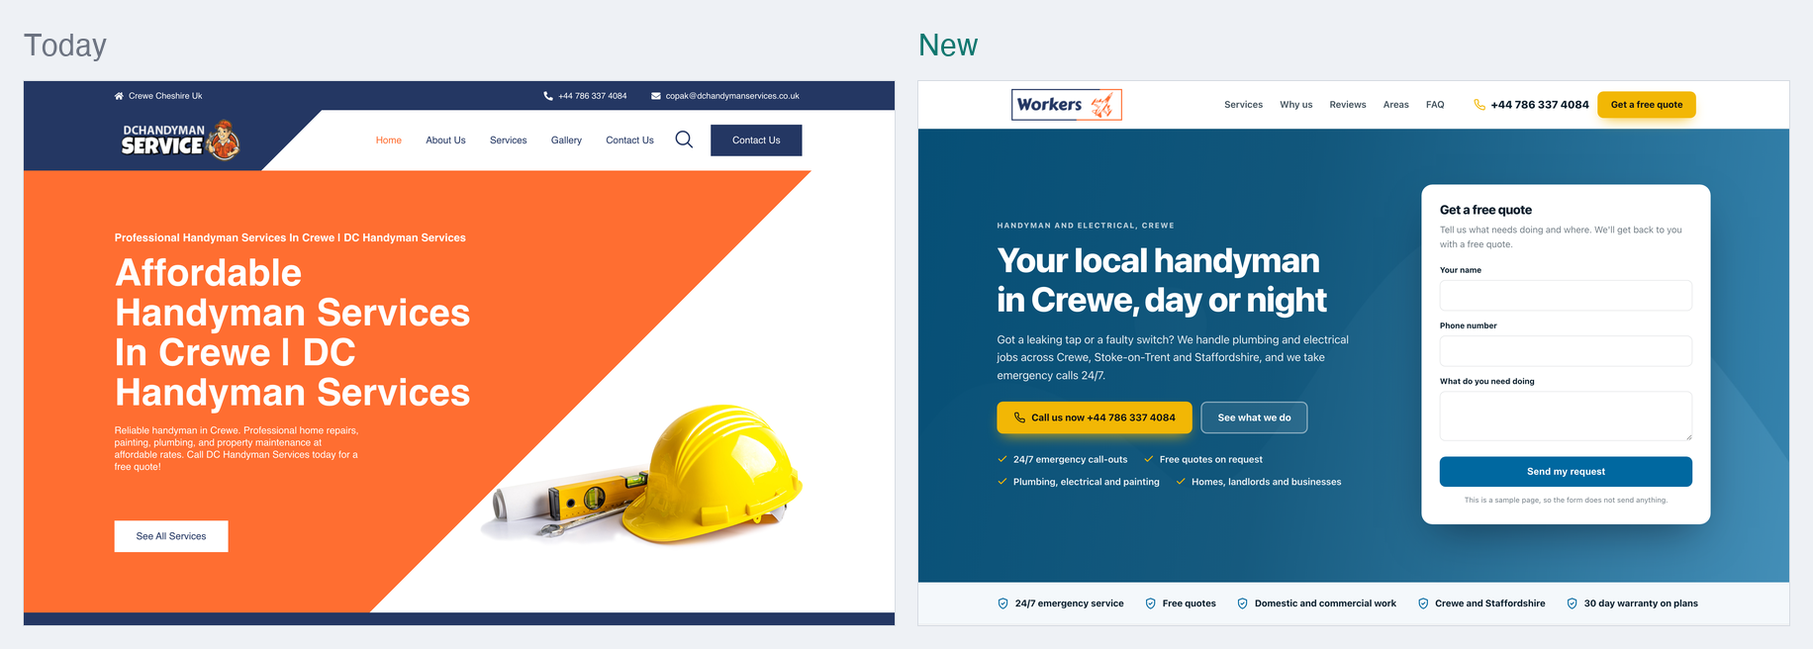
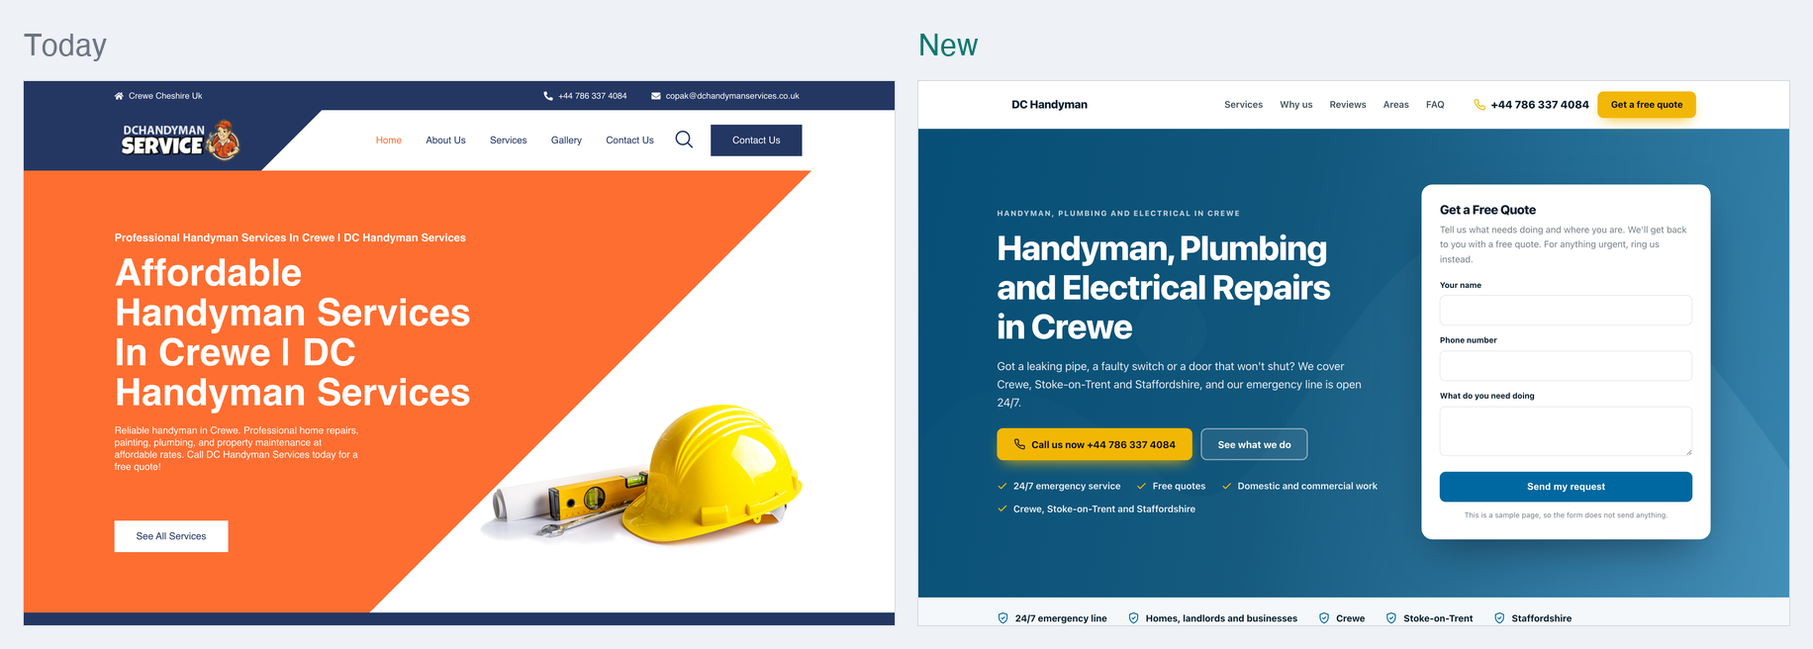
One page sample for DC Handyman

diff --git a/docs/aeee530c22/index.html b/docs/aeee530c22/index.html
@@ -4,14 +4,14 @@
 <meta charset="utf-8">
 <meta name="viewport" content="width=device-width, initial-scale=1">
 <meta name="robots" content="noindex,nofollow">
-<meta name="aso-build" content="9ae88f6a737f">
-<title>Handyman &amp; Electrical Repairs Crewe | DC Handyman</title>
-<meta name="description" content="Handyman in Crewe for electrical, plumbing, painting and repairs. 24/7 emergency service across Stoke-on-Trent and Staffordshire. Free quotes.">
+<meta name="aso-build" content="9c003d2b2772">
+<title>Handyman &amp; Electrical Repairs in Crewe | DC Handyman</title>
+<meta name="description" content="Handyman, plumbing and electrical repairs in Crewe and Stoke-on-Trent. 24/7 emergency service and free quotes from DC Handyman.">
 <link rel="canonical" href="https://markygff.github.io/aso-mockups/aeee530c22/">
 <meta property="og:type" content="website">
 <meta property="og:site_name" content="DC Handyman">
-<meta property="og:title" content="Handyman &amp; Electrical Repairs Crewe | DC Handyman">
-<meta property="og:description" content="Handyman in Crewe for electrical, plumbing, painting and repairs. 24/7 emergency service across Stoke-on-Trent and Staffordshire. Free quotes.">
+<meta property="og:title" content="Handyman &amp; Electrical Repairs in Crewe | DC Handyman">
+<meta property="og:description" content="Handyman, plumbing and electrical repairs in Crewe and Stoke-on-Trent. 24/7 emergency service and free quotes from DC Handyman.">
 <meta property="og:url" content="https://markygff.github.io/aso-mockups/aeee530c22/">
 <meta property="og:image" content="img/p36.jpg"><meta name="twitter:card" content="summary_large_image">
 <style>
@@ -268,7 +268,10 @@ p{margin:0}
 <header class="header">
   <div class="wrap header-in">
     <div class="brand">
-<img src="img/logo.png" alt="DC Handyman logo">    </div>
+      <div>
+        <div class="brand-name">DC Handyman</div>
+      </div>
+    </div>
     <nav class="nav">
       <a href="#services">Services</a>
       <a href="#why">Why us</a>
@@ -288,19 +291,19 @@ p{margin:0}
   <div class="hero-bg"><img src="img/p36.jpg" alt="John Doe" width="1600" height="900"></div>
   <div class="wrap hero-in">
     <div>
-      <p class="eyebrow">Handyman and electrical, Crewe</p>
-      <h1>Your local handyman in Crewe, day or night</h1>
-      <p class="hero-sub">Got a leaking tap or a faulty switch? We handle plumbing and electrical jobs across Crewe, Stoke-on-Trent and Staffordshire, and we take emergency calls 24/7.</p>
+      <p class="eyebrow">Handyman, plumbing and electrical in Crewe</p>
+      <h1>Handyman, Plumbing and Electrical Repairs in Crewe</h1>
+      <p class="hero-sub">Got a leaking pipe, a faulty switch or a door that won&#39;t shut? We cover Crewe, Stoke-on-Trent and Staffordshire, and our emergency line is open 24/7.</p>
       <div class="hero-actions">
         <a class="btn btn-accent" href="tel:+447863374084"><svg viewBox="0 0 24 24" fill="none" stroke="currentColor" stroke-width="2" stroke-linecap="round" stroke-linejoin="round" aria-hidden="true"><path d="M22 16.9v3a2 2 0 0 1-2.2 2 19.8 19.8 0 0 1-8.6-3.1 19.5 19.5 0 0 1-6-6 19.8 19.8 0 0 1-3.1-8.7A2 2 0 0 1 4.1 2h3a2 2 0 0 1 2 1.7c.1 1 .4 1.9.7 2.8a2 2 0 0 1-.5 2.1L8.1 9.9a16 16 0 0 0 6 6l1.3-1.2a2 2 0 0 1 2.1-.5c.9.3 1.8.6 2.8.7a2 2 0 0 1 1.7 2z"/></svg>Call us now +44 786 337 4084</a>
         <a class="btn btn-ghost" href="#services">See what we do</a>
       </div>
       <ul class="hero-bullets">
-<li><svg viewBox="0 0 24 24" fill="none" stroke="currentColor" stroke-width="2.4" stroke-linecap="round" stroke-linejoin="round" aria-hidden="true"><path d="M20 6 9 17l-5-5"/></svg><span>24/7 emergency call-outs</span></li><li><svg viewBox="0 0 24 24" fill="none" stroke="currentColor" stroke-width="2.4" stroke-linecap="round" stroke-linejoin="round" aria-hidden="true"><path d="M20 6 9 17l-5-5"/></svg><span>Free quotes on request</span></li><li><svg viewBox="0 0 24 24" fill="none" stroke="currentColor" stroke-width="2.4" stroke-linecap="round" stroke-linejoin="round" aria-hidden="true"><path d="M20 6 9 17l-5-5"/></svg><span>Plumbing, electrical and painting</span></li><li><svg viewBox="0 0 24 24" fill="none" stroke="currentColor" stroke-width="2.4" stroke-linecap="round" stroke-linejoin="round" aria-hidden="true"><path d="M20 6 9 17l-5-5"/></svg><span>Homes, landlords and businesses</span></li>      </ul>
+<li><svg viewBox="0 0 24 24" fill="none" stroke="currentColor" stroke-width="2.4" stroke-linecap="round" stroke-linejoin="round" aria-hidden="true"><path d="M20 6 9 17l-5-5"/></svg><span>24/7 emergency service</span></li><li><svg viewBox="0 0 24 24" fill="none" stroke="currentColor" stroke-width="2.4" stroke-linecap="round" stroke-linejoin="round" aria-hidden="true"><path d="M20 6 9 17l-5-5"/></svg><span>Free quotes</span></li><li><svg viewBox="0 0 24 24" fill="none" stroke="currentColor" stroke-width="2.4" stroke-linecap="round" stroke-linejoin="round" aria-hidden="true"><path d="M20 6 9 17l-5-5"/></svg><span>Domestic and commercial work</span></li><li><svg viewBox="0 0 24 24" fill="none" stroke="currentColor" stroke-width="2.4" stroke-linecap="round" stroke-linejoin="round" aria-hidden="true"><path d="M20 6 9 17l-5-5"/></svg><span>Crewe, Stoke-on-Trent and Staffordshire</span></li>      </ul>
     </div>
     <div class="quote-card" id="quote">
-      <h3>Get a free quote</h3>
-      <p class="lead">Tell us what needs doing and where. We&#39;ll get back to you with a free quote.</p>
+      <h3>Get a Free Quote</h3>
+      <p class="lead">Tell us what needs doing and where you are. We&#39;ll get back to you with a free quote. For anything urgent, ring us instead.</p>
       <form action="#" onsubmit="return false" novalidate>
         <div class="field"><label for="h-name">Your name</label>
           <input id="h-name" name="name" type="text" autocomplete="name"></div>
@@ -317,11 +320,11 @@ p{margin:0}
 
 <div class="trust">
   <div class="wrap trust-in">
-    <div class="trust-item"><svg viewBox="0 0 24 24" fill="none" stroke="currentColor" stroke-width="2" stroke-linecap="round" stroke-linejoin="round" aria-hidden="true"><path d="M12 2 4 5v6c0 5 3.4 9.4 8 11 4.6-1.6 8-6 8-11V5z"/><path d="m9 12 2 2 4-4"/></svg><span>24/7 emergency service</span></div>
-    <div class="trust-item"><svg viewBox="0 0 24 24" fill="none" stroke="currentColor" stroke-width="2" stroke-linecap="round" stroke-linejoin="round" aria-hidden="true"><path d="M12 2 4 5v6c0 5 3.4 9.4 8 11 4.6-1.6 8-6 8-11V5z"/><path d="m9 12 2 2 4-4"/></svg><span>Free quotes</span></div>
-    <div class="trust-item"><svg viewBox="0 0 24 24" fill="none" stroke="currentColor" stroke-width="2" stroke-linecap="round" stroke-linejoin="round" aria-hidden="true"><path d="M12 2 4 5v6c0 5 3.4 9.4 8 11 4.6-1.6 8-6 8-11V5z"/><path d="m9 12 2 2 4-4"/></svg><span>Domestic and commercial work</span></div>
-    <div class="trust-item"><svg viewBox="0 0 24 24" fill="none" stroke="currentColor" stroke-width="2" stroke-linecap="round" stroke-linejoin="round" aria-hidden="true"><path d="M12 2 4 5v6c0 5 3.4 9.4 8 11 4.6-1.6 8-6 8-11V5z"/><path d="m9 12 2 2 4-4"/></svg><span>Crewe and Staffordshire</span></div>
-    <div class="trust-item"><svg viewBox="0 0 24 24" fill="none" stroke="currentColor" stroke-width="2" stroke-linecap="round" stroke-linejoin="round" aria-hidden="true"><path d="M12 2 4 5v6c0 5 3.4 9.4 8 11 4.6-1.6 8-6 8-11V5z"/><path d="m9 12 2 2 4-4"/></svg><span>30 day warranty on plans</span></div>
+    <div class="trust-item"><svg viewBox="0 0 24 24" fill="none" stroke="currentColor" stroke-width="2" stroke-linecap="round" stroke-linejoin="round" aria-hidden="true"><path d="M12 2 4 5v6c0 5 3.4 9.4 8 11 4.6-1.6 8-6 8-11V5z"/><path d="m9 12 2 2 4-4"/></svg><span>24/7 emergency line</span></div>
+    <div class="trust-item"><svg viewBox="0 0 24 24" fill="none" stroke="currentColor" stroke-width="2" stroke-linecap="round" stroke-linejoin="round" aria-hidden="true"><path d="M12 2 4 5v6c0 5 3.4 9.4 8 11 4.6-1.6 8-6 8-11V5z"/><path d="m9 12 2 2 4-4"/></svg><span>Homes, landlords and businesses</span></div>
+    <div class="trust-item"><svg viewBox="0 0 24 24" fill="none" stroke="currentColor" stroke-width="2" stroke-linecap="round" stroke-linejoin="round" aria-hidden="true"><path d="M12 2 4 5v6c0 5 3.4 9.4 8 11 4.6-1.6 8-6 8-11V5z"/><path d="m9 12 2 2 4-4"/></svg><span>Crewe</span></div>
+    <div class="trust-item"><svg viewBox="0 0 24 24" fill="none" stroke="currentColor" stroke-width="2" stroke-linecap="round" stroke-linejoin="round" aria-hidden="true"><path d="M12 2 4 5v6c0 5 3.4 9.4 8 11 4.6-1.6 8-6 8-11V5z"/><path d="m9 12 2 2 4-4"/></svg><span>Stoke-on-Trent</span></div>
+    <div class="trust-item"><svg viewBox="0 0 24 24" fill="none" stroke="currentColor" stroke-width="2" stroke-linecap="round" stroke-linejoin="round" aria-hidden="true"><path d="M12 2 4 5v6c0 5 3.4 9.4 8 11 4.6-1.6 8-6 8-11V5z"/><path d="m9 12 2 2 4-4"/></svg><span>Staffordshire</span></div>
   </div>
 </div>
 
@@ -329,50 +332,45 @@ p{margin:0}
   <div class="wrap">
     <div class="section-head">
       <p class="eyebrow">What we do</p>
-      <h2>Handyman and electrical services in Crewe</h2>
-      <p>We look after homes, landlords and businesses across Crewe and nearby towns. Small jobs are welcome.</p>
+      <h2>Electrical, Plumbing and Handyman Services in Crewe</h2>
+      <p>We do repairs, maintenance and small jobs for homeowners, landlords and businesses. No job is too small.</p>
     </div>
     <div class="grid grid-3">
       <article class="card card-photo">
         <img src="img/p35.jpg" alt="How DC Handyman Service Can Transform Your Home with Expert Repairs and Renovations" width="600" height="380" loading="lazy">
         <div class="card-body">
           <h3>Electrical</h3>
-          <p>We cover wiring, lighting installations and electrical repairs. Call us when a switch is faulty or a light needs fitting.</p>
+          <p>Wiring, lighting installations and electrical repairs. Call us when a switch or light stops working and you want it sorted safely.</p>
         </div>
       </article>
       <article class="card card-photo">
         <img src="img/p33.jpg" alt="Top 5 Common Household Repairs Every Homeowner in Staffordshire Should Know" width="600" height="380" loading="lazy">
         <div class="card-body">
           <h3>Plumbing</h3>
-          <p>We fix leaks, clear clogged drains and install fixtures. Call us for a leaky tap or a drain that won&#39;t clear.</p>
+          <p>Leaky taps, clogged drains and new fixtures. Call us before a small drip turns into a bigger repair.</p>
         </div>
       </article>
       <article class="card card-photo">
         <img src="img/p34.jpg" alt="Why Choosing a Local Handyman in Staffordshire is the Smartest Move for Your Home Maintenance" width="600" height="380" loading="lazy">
         <div class="card-body">
           <h3>Painting</h3>
-          <p>We do interior and exterior painting, touch-ups and finishing. A good choice when a room or frontage looks tired.</p>
+          <p>Interior and exterior painting, touch-ups and finishing. A clean, modern look with finishes that last.</p>
         </div>
       </article>
       <article class="card">
         <div class="icon"><svg viewBox="0 0 24 24" fill="none" stroke="currentColor" stroke-width="2" stroke-linecap="round" stroke-linejoin="round" aria-hidden="true"><path d="M4 20 15 9"/><path d="m14 4 6 6-3 3-6-6z"/><path d="m3 15 6 6"/></svg></div>
         <h3>Comprehensive Repair Services</h3>
-        <p>We repair shelves, doors, windows, floors, walls and tiles. No job is too small, and we aim to get it right first time.</p>
+        <p>Shelves, doors, windows, floors, walls, tiles and damaged plaster. We aim to get it right the first time.</p>
       </article>
       <article class="card">
         <div class="icon"><svg viewBox="0 0 24 24" fill="none" stroke="currentColor" stroke-width="2" stroke-linecap="round" stroke-linejoin="round" aria-hidden="true"><path d="M12 3s5 4.2 5 9a5 5 0 0 1-10 0c0-1.8.8-3.2 1.6-4.2.3 1 1 1.9 1.9 2.3C11 8.4 10.7 5.6 12 3z"/></svg></div>
         <h3>Replace &amp; Installation</h3>
-        <p>We replace and install fixtures and fittings around the home. We also hang doors, fit skirting boards and assemble furniture.</p>
+        <p>Old fixtures replaced and new ones put in, from taps and light fittings to doors and skirting boards.</p>
       </article>
       <article class="card">
         <div class="icon"><svg viewBox="0 0 24 24" fill="none" stroke="currentColor" stroke-width="2" stroke-linecap="round" stroke-linejoin="round" aria-hidden="true"><path d="M2 7h11v10H2z"/><path d="M13 10h4l4 3.5V17h-8z"/><circle cx="6" cy="18" r="2"/><circle cx="17" cy="18" r="2"/></svg></div>
-        <h3>Maintenance Service</h3>
-        <p>We keep homes, rentals and business premises in good order. Landlords can use us for regular upkeep and emergency repairs.</p>
-      </article>
-      <article class="card">
-        <div class="icon"><svg viewBox="0 0 24 24" fill="none" stroke="currentColor" stroke-width="2" stroke-linecap="round" stroke-linejoin="round" aria-hidden="true"><path d="M12 2 4 5v6c0 5 3.4 9.4 8 11 4.6-1.6 8-6 8-11V5z"/><path d="m9 12 2 2 4-4"/></svg></div>
         <h3>Best Maintenance Plans</h3>
-        <p>Plans that cover call-outs and monthly maintenance for your building. The residential plan is £450 and the business plan is £680.</p>
+        <p>Plans that cover call-outs and regular maintenance for homes and business premises. Call us for a quote for your building.</p>
       </article>
     </div>
   </div>
@@ -382,35 +380,35 @@ p{margin:0}
   <div class="wrap">
     <div class="section-head">
       <p class="eyebrow">Why us</p>
-      <h2>Why people in Crewe call us</h2>
+      <h2>Why Call DC Handyman</h2>
     </div>
     <div class="grid grid-2">
       <div class="why-item">
         <div class="why-badge">1</div>
         <div>
           <h3>Prompt service</h3>
-          <p>We prioritise quick responses and get your repair done efficiently.</p>
+          <p>We answer quickly and get on with the job, so your repair doesn&#39;t sit waiting.</p>
         </div>
       </div>
       <div class="why-item">
         <div class="why-badge">2</div>
         <div>
           <h3>Affordable rates</h3>
-          <p>Our prices are competitive, so you get good value without cutting corners on the work.</p>
+          <p>Fair prices and free quotes, so you know where you stand before any work starts.</p>
         </div>
       </div>
       <div class="why-item">
         <div class="why-badge">3</div>
         <div>
-          <h3>24/7 emergency cover</h3>
-          <p>A burst pipe or a power fault won&#39;t wait. Call us any time, day or night.</p>
+          <h3>One call, many trades</h3>
+          <p>Plumbing, electrical, painting and general repairs. One number for most jobs around the house.</p>
         </div>
       </div>
       <div class="why-item">
         <div class="why-badge">4</div>
         <div>
           <h3>We stand by our work</h3>
-          <p>We take care with every job. Our maintenance plans come with a 30 day warranty.</p>
+          <p>We treat every job with care and respect for your home, and we stand behind what we do.</p>
         </div>
       </div>
     </div>
@@ -421,9 +419,17 @@ p{margin:0}
   <div class="wrap">
     <div class="section-head">
       <p class="eyebrow">In their words</p>
-      <h2>What our customers say</h2>
+      <h2>What Our Customers Say</h2>
     </div>
-    <div class="grid grid-2">
+    <div class="grid grid-3">
+      <div class="quote-block">
+        <div class="stars">★★★★★</div>
+        <blockquote>DC Handyman Service transformed our home with their expert craftsmanship and prompt service. Highly recommend them!</blockquote>
+<div class="who">Lola Silva Client</div>      </div>
+      <div class="quote-block">
+        <div class="stars">★★★★★</div>
+        <blockquote>Affordable rates and quality work! The team was professional, efficient, and exceeded our expectations. Thank you!</blockquote>
+<div class="who">Ann Clark Client</div>      </div>
       <div class="quote-block">
         <div class="stars">★★★★★</div>
         <blockquote>Exceptional service from start to finish. The handyman was skilled, friendly, and attentive to our needs. Will use them again.</blockquote>
@@ -436,11 +442,11 @@ p{margin:0}
   <div class="wrap">
     <div class="section-head">
       <p class="eyebrow">Where we work</p>
-      <h2>Handyman cover across Crewe and Staffordshire</h2>
-      <p>We&#39;re based in Crewe and work across Staffordshire, including Stoke-on-Trent. Not sure if we cover you? Give us a call.</p>
+      <h2>Handyman Services in Crewe and Stoke-on-Trent</h2>
+      <p>We work across Crewe, Stoke-on-Trent and the wider Staffordshire area. If you&#39;re not sure we cover you, give us a ring and ask.</p>
     </div>
     <ul class="area-list">
-<li>Crewe</li><li>Staffordshire</li><li>Stoke-on-Trent</li>    </ul>
+<li>Crewe</li><li>Stoke-on-Trent</li><li>Staffordshire</li>    </ul>
   </div>
 </section>
 
@@ -448,27 +454,27 @@ p{margin:0}
   <div class="wrap" style="max-width:840px">
     <div class="section-head">
       <p class="eyebrow">Questions</p>
-      <h2>Common questions</h2>
+      <h2>Common Questions</h2>
     </div>
     <div class="faq-item">
-      <h3><span>Q.</span>Is there a 24/7 emergency handyman in Crewe?</h3>
-      <p>Yes. DC Handyman runs 24/7 emergency services, so you can call any time, day or night. Tell us what&#39;s happened and we&#39;ll talk you through the next step.</p>
+      <h3><span>Q.</span>Is there a 24 hour emergency handyman in Crewe?</h3>
+      <p>Yes. Our emergency line is open 24/7, so you can call us any time, day or night. Ring us, tell us what&#39;s happened and we&#39;ll tell you when we can get to you.</p>
     </div>
     <div class="faq-item">
-      <h3><span>Q.</span>Which areas do you cover?</h3>
-      <p>We work across Crewe, Stoke-on-Trent and the wider Staffordshire area. If you&#39;re nearby and not sure, give us a call and ask.</p>
+      <h3><span>Q.</span>What areas do you cover?</h3>
+      <p>We cover Crewe, Stoke-on-Trent and the wider Staffordshire area. If you&#39;re just outside those places, call us and ask. We&#39;ll tell you straight if we can help.</p>
     </div>
     <div class="faq-item">
       <h3><span>Q.</span>Do you give free quotes?</h3>
-      <p>Yes. Call us or send the form for a free quote. Our maintenance plans also include free diagnostics.</p>
+      <p>Yes. Quotes are free. Call us or send the form with a few details about the job and we&#39;ll come back to you with a price.</p>
+    </div>
+    <div class="faq-item">
+      <h3><span>Q.</span>Can a handyman do small plumbing and electrical jobs?</h3>
+      <p>We handle small plumbing and electrical tasks, such as leaky taps, clogged drains, faulty switches, wiring and lighting installations. Tell us what&#39;s wrong and we&#39;ll say whether it&#39;s a job for us.</p>
     </div>
     <div class="faq-item">
       <h3><span>Q.</span>What happens on the first visit?</h3>
-      <p>You book by phone or through our form. One of our team visits, looks at the job and plans the work with you. Then we carry it out at your home.</p>
-    </div>
-    <div class="faq-item">
-      <h3><span>Q.</span>How much does a handyman maintenance plan cost?</h3>
-      <p>Our residential plan is £450 and our business plan is £680. Both include free diagnostics, replacement and installation, maintenance, a 30 day warranty and 24/7 support. Call us for a quote for your building.</p>
+      <p>Our tradesperson looks at the problem, works out what needs doing and plans the work with you. Then we carry out the job at your property.</p>
     </div>
   </div>
 </section>
@@ -477,8 +483,8 @@ p{margin:0}
   <div class="wrap contact-in">
     <div>
       <p class="eyebrow">Get in touch</p>
-      <h2 style="font-size:clamp(1.75rem,3.2vw,2.4rem);margin-bottom:14px">Get a free quote</h2>
-      <p style="color:var(--muted);font-size:1.06rem">Tell us what needs doing and where. We&#39;ll get back to you with a free quote.</p>
+      <h2 style="font-size:clamp(1.75rem,3.2vw,2.4rem);margin-bottom:14px">Get a Free Quote</h2>
+      <p style="color:var(--muted);font-size:1.06rem">Tell us what needs doing and where you are. We&#39;ll get back to you with a free quote. For anything urgent, ring us instead.</p>
       <div class="contact-facts">
         <div class="fact-row"><svg viewBox="0 0 24 24" fill="none" stroke="currentColor" stroke-width="2" stroke-linecap="round" stroke-linejoin="round" aria-hidden="true"><path d="M22 16.9v3a2 2 0 0 1-2.2 2 19.8 19.8 0 0 1-8.6-3.1 19.5 19.5 0 0 1-6-6 19.8 19.8 0 0 1-3.1-8.7A2 2 0 0 1 4.1 2h3a2 2 0 0 1 2 1.7c.1 1 .4 1.9.7 2.8a2 2 0 0 1-.5 2.1L8.1 9.9a16 16 0 0 0 6 6l1.3-1.2a2 2 0 0 1 2.1-.5c.9.3 1.8.6 2.8.7a2 2 0 0 1 1.7 2z"/></svg><div><strong>Phone</strong>
           <a href="tel:+447863374084">+44 786 337 4084</a></div></div>
@@ -499,7 +505,7 @@ p{margin:0}
           <input id="c-email" name="email" type="email" autocomplete="email"></div>
         <div class="field"><label for="c-service">What do you need</label>
           <select id="c-service" name="service">
-<option>Electrical</option><option>Plumbing</option><option>Painting</option><option>Comprehensive Repair Services</option><option>Replace &amp; Installation</option><option>Maintenance Service</option><option>Best Maintenance Plans</option>            <option>Something else</option>
+<option>Electrical</option><option>Plumbing</option><option>Painting</option><option>Comprehensive Repair Services</option><option>Replace &amp; Installation</option><option>Best Maintenance Plans</option>            <option>Something else</option>
           </select></div>
         <div class="field"><label for="c-msg">Tell us about the job</label>
           <textarea id="c-msg" name="message"></textarea></div>
@@ -516,15 +522,15 @@ p{margin:0}
     <div class="footer-in">
       <div>
         <div class="footer-brand">DC Handyman</div>
-        <p>Handyman, plumbing and electrical repairs across Crewe, Stoke-on-Trent and Staffordshire.</p>
+        <p>Handyman, plumbing, electrical and painting work across Crewe, Stoke-on-Trent and Staffordshire.</p>
 <p style="margin-top:14px"><a href="tel:+447863374084">+44 786 337 4084</a></p>      </div>
       <div>
         <h4>Services</h4>
-        <ul><li>Electrical</li><li>Plumbing</li><li>Painting</li><li>Comprehensive Repair Services</li><li>Replace &amp; Installation</li><li>Maintenance Service</li></ul>
+        <ul><li>Electrical</li><li>Plumbing</li><li>Painting</li><li>Comprehensive Repair Services</li><li>Replace &amp; Installation</li><li>Best Maintenance Plans</li></ul>
       </div>
       <div>
         <h4>Areas</h4>
-        <ul><li>Crewe</li><li>Staffordshire</li><li>Stoke-on-Trent</li></ul>
+        <ul><li>Crewe</li><li>Stoke-on-Trent</li><li>Staffordshire</li></ul>
       </div>
     </div>
     <div class="footer-note">
@@ -540,7 +546,7 @@ p{margin:0}
     "@type": "Electrician",
     "name": "DC Handyman",
     "url": "https://markygff.github.io/aso-mockups/aeee530c22/",
-    "description": "Handyman in Crewe for electrical, plumbing, painting and repairs. 24/7 emergency service across Stoke-on-Trent and Staffordshire. Free quotes.",
+    "description": "Handyman, plumbing and electrical repairs in Crewe and Stoke-on-Trent. 24/7 emergency service and free quotes from DC Handyman.",
     "telephone": "+44 786 337 4084",
     "email": "copak@dchandymanservices.co.uk",
     "areaServed": [
@@ -550,11 +556,11 @@ p{margin:0}
       },
       {
         "@type": "Place",
-        "name": "Staffordshire"
+        "name": "Stoke-on-Trent"
       },
       {
         "@type": "Place",
-        "name": "Stoke-on-Trent"
+        "name": "Staffordshire"
       }
     ],
     "makesOffer": [
@@ -597,13 +603,6 @@ p{margin:0}
         "@type": "Offer",
         "itemOffered": {
           "@type": "Service",
-          "name": "Maintenance Service"
-        }
-      },
-      {
-        "@type": "Offer",
-        "itemOffered": {
-          "@type": "Service",
           "name": "Best Maintenance Plans"
         }
       }
@@ -616,18 +615,18 @@ p{margin:0}
     "mainEntity": [
       {
         "@type": "Question",
-        "name": "Is there a 24/7 emergency handyman in Crewe?",
+        "name": "Is there a 24 hour emergency handyman in Crewe?",
         "acceptedAnswer": {
           "@type": "Answer",
-          "text": "Yes. DC Handyman runs 24/7 emergency services, so you can call any time, day or night. Tell us what's happened and we'll talk you through the next step."
+          "text": "Yes. Our emergency line is open 24/7, so you can call us any time, day or night. Ring us, tell us what's happened and we'll tell you when we can get to you."
         }
       },
       {
         "@type": "Question",
-        "name": "Which areas do you cover?",
+        "name": "What areas do you cover?",
         "acceptedAnswer": {
           "@type": "Answer",
-          "text": "We work across Crewe, Stoke-on-Trent and the wider Staffordshire area. If you're nearby and not sure, give us a call and ask."
+          "text": "We cover Crewe, Stoke-on-Trent and the wider Staffordshire area. If you're just outside those places, call us and ask. We'll tell you straight if we can help."
         }
       },
       {
@@ -635,7 +634,15 @@ p{margin:0}
         "name": "Do you give free quotes?",
         "acceptedAnswer": {
           "@type": "Answer",
-          "text": "Yes. Call us or send the form for a free quote. Our maintenance plans also include free diagnostics."
+          "text": "Yes. Quotes are free. Call us or send the form with a few details about the job and we'll come back to you with a price."
+        }
+      },
+      {
+        "@type": "Question",
+        "name": "Can a handyman do small plumbing and electrical jobs?",
+        "acceptedAnswer": {
+          "@type": "Answer",
+          "text": "We handle small plumbing and electrical tasks, such as leaky taps, clogged drains, faulty switches, wiring and lighting installations. Tell us what's wrong and we'll say whether it's a job for us."
         }
       },
       {
@@ -643,15 +650,7 @@ p{margin:0}
         "name": "What happens on the first visit?",
         "acceptedAnswer": {
           "@type": "Answer",
-          "text": "You book by phone or through our form. One of our team visits, looks at the job and plans the work with you. Then we carry it out at your home."
-        }
-      },
-      {
-        "@type": "Question",
-        "name": "How much does a handyman maintenance plan cost?",
-        "acceptedAnswer": {
-          "@type": "Answer",
-          "text": "Our residential plan is £450 and our business plan is £680. Both include free diagnostics, replacement and installation, maintenance, a 30 day warranty and 24/7 support. Call us for a quote for your building."
+          "text": "Our tradesperson looks at the problem, works out what needs doing and plans the work with you. Then we carry out the job at your property."
         }
       }
     ]
